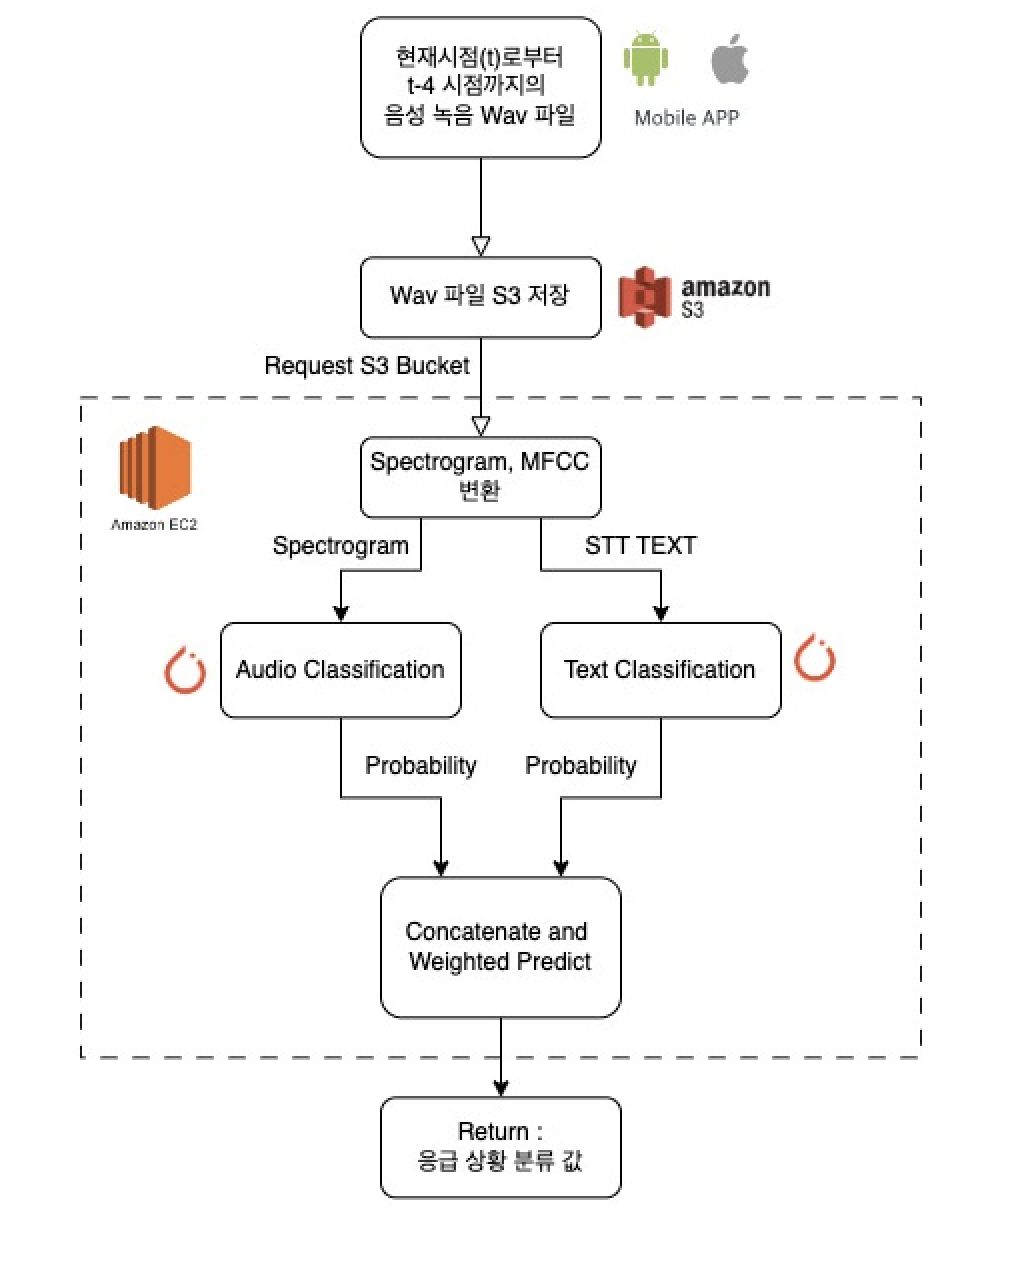
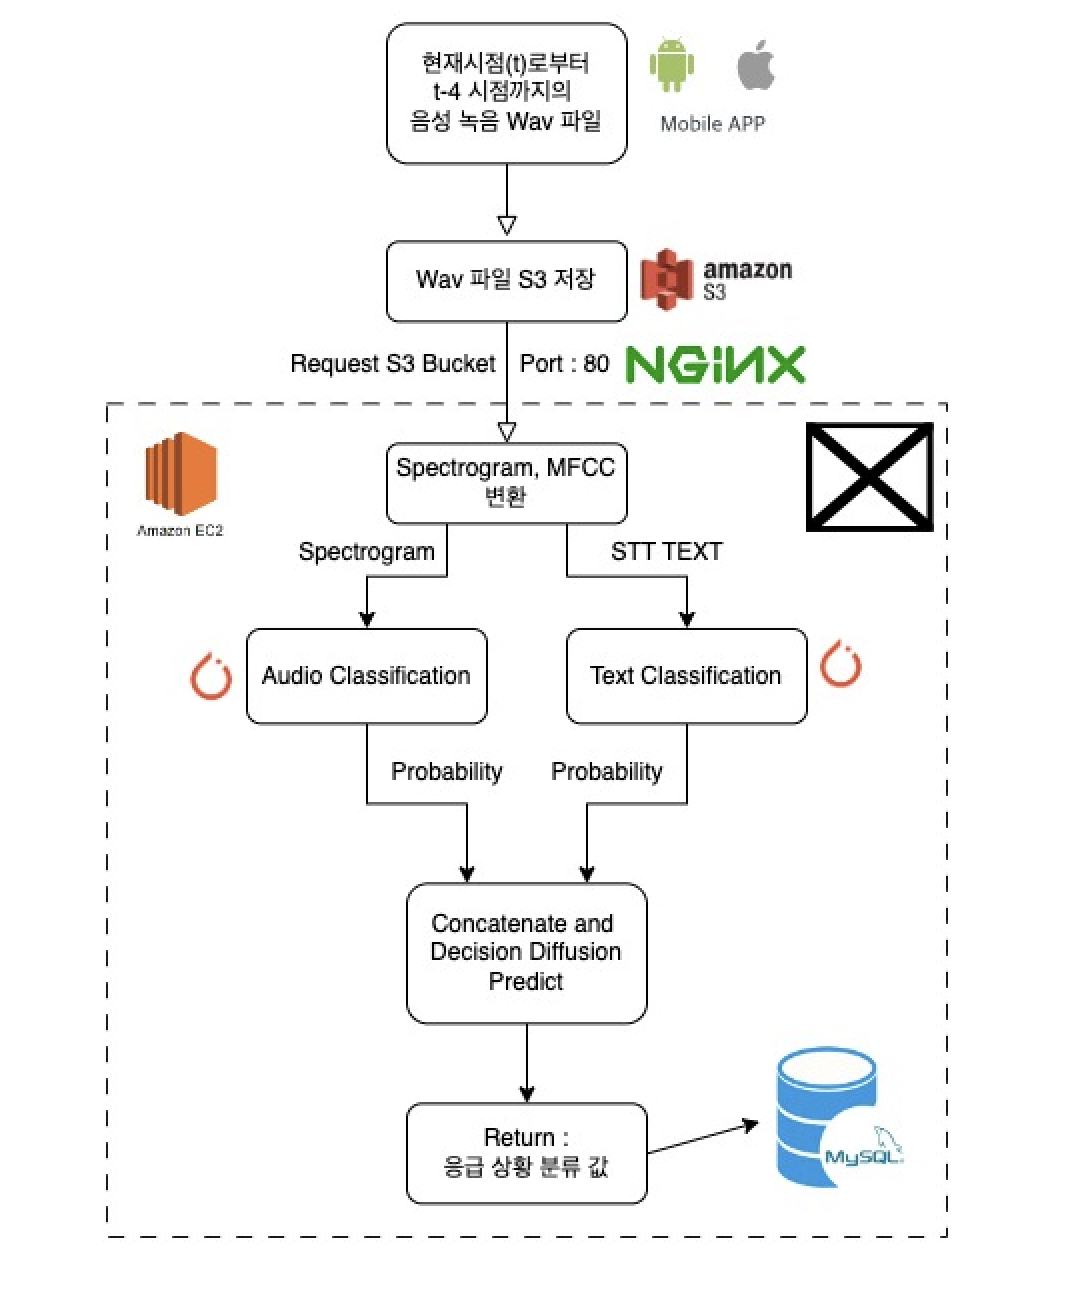
✨ feat: readme 수정

Changed region(s): [[0.0936, 0.0, 0.8733, 0.936], [0.6862, 0.78, 0.8421, 0.9048], [0.8733, 0.8112, 0.9045, 0.8424]]

diff --git a/README.md b/README.md
@@ -65,7 +65,9 @@
   - /predict_s3
     - 음성 파일을 분류합니다.
     - S3에 저장된 음성 파일의 S3 URI를 받아와서 해당 파일을 다운로드한 후 분류 모델로 예측을 수행하고, 예측 결과인 라벨과 확률값을 반환하는 FastAPI 엔드포인트입니다.
+  - 위의 predict endpoint들은 multi-model 형식으로 inference를 수행 후 반환된 확률값들을 기반하여 Decision Diffusion을 이용하여 최종 결과를 반환합니다.    
 
+<br>
 ## 3. 프로젝트 구조
 
 - 프로젝트 최종 구조
@@ -73,8 +75,9 @@
     ![architectures](test_data/Architecture.png "architectures")
 
 - 각 model은 cpu를 통해 inference를 수행합니다.
-- sagemaker 대신 로컬 혹은 같은 환경에서 2개의 모델이 inference를 수행합니다.
+- sagemaker 대신 로컬 혹은 같은 환경에서 2개의 모델이 multi model 형식으로 inference를 수행합니다.
 - Mac M1 Pro 칩 기준으로 inference time
   - Resnet : 평균 1초 이내
-  - KoBERT : 평균 6초 이내 (모델과 토큰나이저를 cache로 저장하여 사용)
-  - 총 7초가 소요됩니다
+  - KoBERT : 평균 1초 이내 (모델과 토큰나이저를 cache로 저장하여 사용)
+  - Decision Diffusion : 평균 1초 이내 
+  - 총 2초 이내가 소요됩니다
